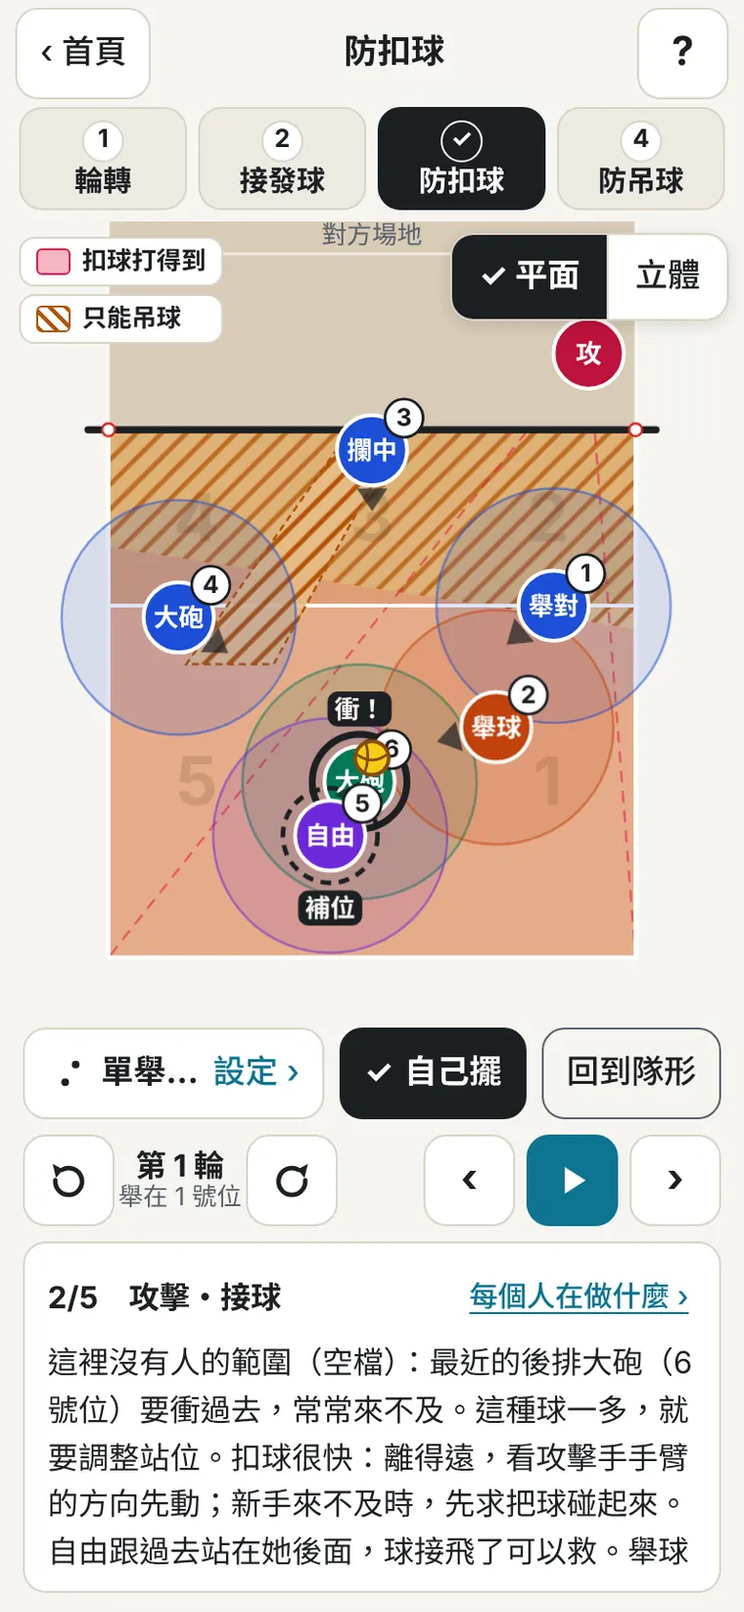
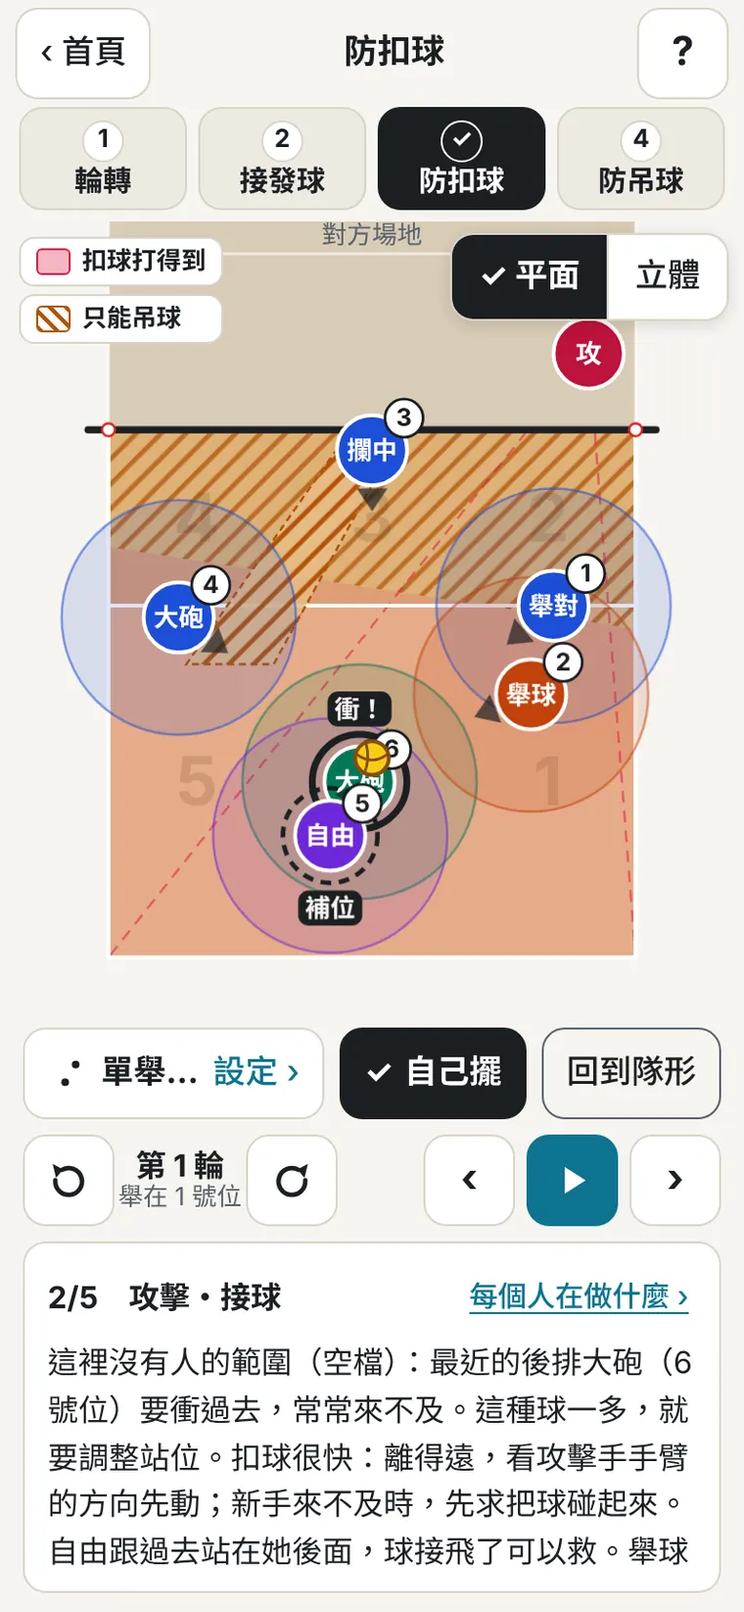
排球站位教室 v2.3.0：球往舉球位置接、舉球員接第一球由輔舉修正、連續播放
- 防起來的球一律接到舉球員跑到的終點（網前、2 號位偏中間）
- 舉球員接第一球：舉對（輔舉）從 1 號位跑上來修正，修正球離網稍微開一點；舉球員讓開
- 預設連續播放：接球、送球時不停下來；設定「播放方式」可改回每一步停下來
- 說明、知識頁、站位圖解跟著更新；說明圖重拍

Claude-Session: https://claude.ai/code/session_01Q8m2fzsawgKx5UKmuuzCmE

Changed region(s): [[0.5145, 0.372, 0.8474, 0.5271], [0.7868, 0.403, 0.8776, 0.496], [0.5447, 0.496, 0.6053, 0.5271]]

diff --git a/js/app.js b/js/app.js
@@ -4,14 +4,18 @@
 (() => {
 'use strict';
 
-const APP_VERSION = '2.2.0';
+const APP_VERSION = '2.3.0';
 const BUILD_DATE = '2026-11-16';
 const VERSION_TEXT = `v${APP_VERSION}（${BUILD_DATE}）`;
 const COPY = '© 2026 Ken Chen';
 const KEY = { settings:'vbdef.settings.v1', custom:'vbdef.custom.v1', hint:'vbdef.hint.drag.v1', hint2:'vbdef.hint.v2', screen:'vbdef.screen' };
 const NS = 'http://www.w3.org/2000/svg';
 const VB = { x:-0.45, y:-3.55, w:9.9, h:13.55 };
-const TARGET = [4.8, 2.6];                       // 防起來要送到的目標區：場中間、離網兩三公尺
+const TARGET = [4.8, 2.6];                       // （舊的目標區，只留給測試對照）
+// 修正球的目標：舉球員接第一球時，送給 1 號位跑上來的舉對（輔舉）；離網稍微開一點，但不能太開，攔中才打得到
+const FIX_T = [6.1, 1.9];
+// 防起來的球一律接到舉球員會跑到的終點（網前、2 號位偏中間）；舉球員自己接第一球時改送修正目標
+function digTarget(d){ return d === 'S' ? FIX_T : rt(); }
 const RT0 = [5.6, 1.15];                         // 接發球的傳球目標：網前 1 公尺多、中間偏右
 function rt(){ return VBRot.teamOK(S.system, S.recv) ? VBRot.TEAM.target : RT0; }   // 隊上的圖：舉球員在 2 號位偏中間舉
 const SERVER_Y = -9.6;                           // 發球員站在對方底線後面
@@ -77,7 +81,7 @@ const darkMQ = (() => { try{ return window.matchMedia('(prefers-color-scheme: da
 
 /* ---------- 狀態 ---------- */
 const DEFAULTS = { system:'51', rot:1, recv:'team', useLib:true, step:'rot', serveX:1.6, view:'2d', cam:'dig',
-  formation:'ours', canOH:true, canMB:true, canR:false, mbLate:false, blockRes:'soft', libero:5, radius:2, speed:'normal', attackType:'spike', mode:'learn', attacker:{ x:8.2, y:-1.3 } };
+  formation:'ours', canOH:true, canMB:true, canR:false, mbLate:false, blockRes:'soft', libero:5, radius:2, speed:'normal', flow:'flow', attackType:'spike', mode:'learn', attacker:{ x:8.2, y:-1.3 } };
 const CAMS = ['dig','stand','S','MB','OH1','OPP','OH2','L'];
 function sanitizeSettings(o){
   const r = {};
@@ -95,6 +99,7 @@ function sanitizeSettings(o){
   if (['normal','slow'].includes(o.speed)) r.speed = o.speed;
   if (['spike','tip'].includes(o.attackType)) r.attackType = o.attackType;
   if (['soft','kill','miss'].includes(o.blockRes)) r.blockRes = o.blockRes;
+  if (['flow','step'].includes(o.flow)) r.flow = o.flow;
   if (['learn','free'].includes(o.mode)) r.mode = o.mode;
   if (o.attacker && isFinite(o.attacker.x) && isFinite(o.attacker.y)) r.attacker = { x:clamp(+o.attacker.x, .3, 8.7), y:clamp(+o.attacker.y, -3.2, -.6) };
   if (['51','62','42'].includes(o.system)) r.system = o.system;
@@ -126,7 +131,7 @@ const S = Object.assign({}, DEFAULTS, sanitizeSettings(store.get(KEY.settings, {
 S.attacker = Object.assign({}, S.attacker);
 let custom = sanitizeCustom(store.get(KEY.custom, null));
 function saveSettings(){
-  store.set(KEY.settings, { sv:4, blockRes:S.blockRes, system:S.system, rot:S.rot, recv:S.recv, useLib:S.useLib, step:S.step, serveX:+S.serveX.toFixed(2), view:S.view, cam:S.cam,
+  store.set(KEY.settings, { sv:4, blockRes:S.blockRes, flow:S.flow, system:S.system, rot:S.rot, recv:S.recv, useLib:S.useLib, step:S.step, serveX:+S.serveX.toFixed(2), view:S.view, cam:S.cam,
     formation:S.formation, canOH:S.canOH, canMB:S.canMB, canR:S.canR, mbLate:S.mbLate, libero:S.libero, radius:S.radius,
     speed:S.speed, attackType:S.attackType, mode:S.mode, attacker:{ x:+S.attacker.x.toFixed(2), y:+S.attacker.y.toFixed(2) } });
 }
@@ -284,7 +289,7 @@ function compute(att){
   let extra = tip ? (perTip ? `吊球靠${roleName(tip, lu)}看到就往前撲（離得遠，這是心後的弱點）。` : `吊球由${roleName(tip, lu)}守。`)
                   : (blockRoles.length ? '短球由退下來的前排守。' : '');
   if (frontCover && S.formation !== 'per' && S.formation !== 'ours') extra += '前排已經有人守吊球，後排三個人都站深。';
-  if (tip === 'S') extra += '舉球員接了吊球，就要喊「修正」換人舉。';
+  if (tip === 'S') extra += '舉球員接了吊球，第二球由舉對（輔舉）舉。';
   const summary = `${sideText}：${blockText}。${extra}`;
   return { pos, base, notes, lu, side, blockers:blockRoles, seg, tip, summary, shadow: shadowPoly(att, seg), free:false };
 }
@@ -394,16 +399,13 @@ function ruleText(dec){
 }
 
 /* ---------- 一球的過程 ---------- */
-function backupSetter(dec, comp, P1){
-  const pool = ['L','OH2','OPP'].filter(r => r !== dec.digger && !comp.lu[r].front);
-  if (!pool.length) return 'L';
-  pool.sort((p, q) => dist(P1[p], TARGET) - dist(P1[q], TARGET));
-  return pool[0];
-}
-function chooseHitter(d, L, comp){
+// 隊上的做法：舉球員接第一球時，由舉對（輔舉）舉第二球
+function backupSetter(dec){ return dec.digger === 'OPP' ? 'L' : 'OPP'; }
+function chooseHitter(d, L, comp, setter){
   const lu = comp.lu;
+  if (setter === 'OH1') return 'MB';
   if (lu.OH1.front && !(d === 'OH1' && L[1] > 4)) return 'OH1';
-  if (lu.OPP.front && d !== 'OPP' && !(S.formation === 'ours' && setterBack())) return 'OPP';
+  if (lu.OPP.front && d !== 'OPP' && setter !== 'OPP' && !(S.formation === 'ours' && setterBack())) return 'OPP';
   return 'MB';
 }
 function coverSpots(H){
@@ -486,10 +488,15 @@ function buildSteps(L, type, comp, dec, att){
   const P1 = clonePos(P0);
   P1[d] = clampCourt([L[0] + away[0]*.45, L[1] + away[1]*.45]);   // 站在球的後面一點，球在身體前面接
   const busy = new Set([d, ...comp.blockers]);
+  const TG = digTarget(d);
   const setterGoes = d !== 'S' && !comp.blockers.includes('S');
   if (setterGoes) busy.add('S');
+  // 舉球員接第一球：舉對（輔舉）要去舉，不去補位
+  const fixGoes = d === 'S';
+  if (fixGoes) busy.add('OPP');
   let backup = dec.backup;
   if (backup === 'S' && setterGoes) backup = null;
+  if (backup === 'OPP' && fixGoes) backup = null;
   // 前排攻擊手要準備攻擊，只有球落在前場（離網 3.5 公尺內）時才幫忙補位
   const canHelp = r => !busy.has(r) && (!lu[r].front || L[1] < 3.5);
   if (!backup){
@@ -511,14 +518,16 @@ function buildSteps(L, type, comp, dec, att){
     const stp = Math.min(.6, dd * .25);
     P1[r] = [P0[r][0] + (L[0] - P0[r][0]) / dd * stp, P0[r][1] + (L[1] - P0[r][1]) / dd * stp]; leaners.push(r);
   }
-  const setterRole = d === 'S' ? backupSetter(dec, comp, P1) : 'S';
-  if (setterGoes) P1.S = lerp(P0.S, TARGET, .35);
+  const setterRole = d === 'S' ? backupSetter(dec) : 'S';
+  if (setterGoes) P1.S = lerp(P0.S, TG, .35);
+  if (fixGoes && !comp.blockers.includes('OPP')) P1.OPP = lerp(P0.OPP, TG, .3);
   const tech = digTech(soft ? 'soft' : type, P0[d], L);
   let cap1 = (soft ? '這球打到攔網的手，速度變慢，掉在攔網後面變成小球。' : '') + reasonText(dec, lu) + tech;
   if (backup && backup !== dec.backup) cap1 += `${short(backup)}跟過去站在她後面，球接飛了可以救。`;
   if (fillers.length) cap1 += `${fillers.map(short).join('、')}往她空出來的地方移一點。`;
   if (leaners.length) cap1 += '其他人往球的方向靠一步，眼睛跟著球。';
-  if (setterGoes) cap1 += '舉球員看到別人接，就往目標區跑。';
+  if (setterGoes) cap1 += '舉球員看到別人接，就往網前的舉球位置跑。';
+  if (fixGoes) cap1 += '舉對（輔舉）看到舉球員去接，就往前跑，準備舉第二球。';
   const rules1 = [ruleText(dec)];
   if (backup || fillers.length) rules1.push('補位：最近的隊友跟到接球的人後面保護，旁邊的人往空出來的地方移（教練慣例）。');
   const faceMap = {}; for (const r of ROLES) faceMap[r] = L; faceMap[d] = A;
@@ -530,27 +539,33 @@ function buildSteps(L, type, comp, dec, att){
     notes:allNotes(r => r === d ? `接球：${tech}` : r === backup ? '補位：跟到接球的人後面，球接飛了可以救'
       : fillers.includes(r) ? '補空位：往接球的人空出來的地方移一點'
       : leaners.includes(r) ? '往球的方向靠一步，準備救接飛的球'
-      : (r === 'S' && setterGoes) ? '往目標區跑，準備舉球' : comp.blockers.includes(r) ? '攔網落地，轉身看球' : '原地準備，眼睛跟著球') });
-  // 2. 送到目標區
+      : (r === 'S' && setterGoes) ? '往網前的舉球位置跑，準備舉球' : (r === 'OPP' && fixGoes) ? '看到舉球員去接，往前跑準備舉第二球' : comp.blockers.includes(r) ? '攔網落地，轉身看球' : '原地準備，眼睛跟著球') });
+  // 2. 送到舉球位置（舉球員接第一球時送修正球）
   const P2 = clonePos(P1);
   const moved = new Set([setterRole]);
-  P2[setterRole] = [TARGET[0] + .15, TARGET[1] + .3];
+  P2[setterRole] = [TG[0] + .15, TG[1] + .3];
   const attackers = ['OH1','MB','OPP'].filter(r => lu[r].front && r !== setterRole && !(r === d && L[1] > 5));
   for (const r of attackers){ P2[r] = APPROACH[r].slice(); moved.add(r); }
-  if (!moved.has(d)){ P2[d] = lerp(P1[d], TARGET, .2); moved.add(d); }
+  if (!moved.has(d)){
+    // 接完球往舉球的人靠過去準備保護；舉球員自己接的，讓開位置給輔舉
+    if (d === 'S'){ const v = unit([P1.S[0] - TG[0], P1.S[1] - TG[1]]); P2.S = clampCourt([P1.S[0] + v[0] * .6, P1.S[1] + v[1] * .6]); }
+    else P2[d] = lerp(P1[d], TG, .2);
+    moved.add(d);
+  }
   for (const r of ROLES) if (!moved.has(r) && !lu[r].front) P2[r] = (READY[lu[r].zone] || P2[r]).slice();
-  let cap2 = `${short(d)}把球高高接到場中間、離網兩三公尺的目標區。`;
+  let cap2;
   if (d === 'S'){
-    cap2 += `舉球員接了第一球，喊「修正」，由最近的${short(setterRole)}來舉，高高送到 4 號位。`;
+    cap2 = `舉球員接了第一球：把球接高、離網稍微開一點（不能太開，攔中才打得到），${short(setterRole)}（輔舉）從後面跑上來修正，高高送到 4 號位。`;
     if (setterRole === 'L') cap2 += '自由在三米線前用手舉的話，攻擊手不能在網子上方打，所以要用下手舉，或退到三米線後面舉。';
-  } else cap2 += '舉球員跑到球下面準備舉。';
+  } else cap2 = `${short(d)}把球接高，往舉球員會跑到的地方送（網前、2 號位偏中間）。不管在哪個位置接，都往這裡接。舉球員跑到球下面準備舉。`;
   cap2 += '前排攻擊手退到起跑點' + (comp.blockers.length ? '，攔網的人落地轉身退開' : '') + '。';
-  steps.push({ key:'pass', title:'送到目標區', pos:P2, ball:{ from:L, to:TARGET, dur:900, arc:1.1, z:[.65, 2.4, 4.6] }, cap:cap2, face:TARGET,
-    rule: d === 'S' ? '依據：舉球員接第一球時，由自由或舉對舉第二球；自由在前區用手舉有限制（規則）。' : '依據：防起來的球要高、離網、往場中間。',
-    marks:{ set:setterRole, target:'dig' },
-    notes:allNotes(r => r === setterRole ? '跑到目標區，準備舉球' : attackers.includes(r) ? '退到起跑點，準備助跑' : r === d ? '接完球往中間靠，準備保護' : '回到後排，準備保護') });
+  const passDur = clamp(900 + Math.max(0, dist(P1[setterRole], TG) - 3) * 140, 900, 1400);
+  steps.push({ key:'pass', title: d === 'S' ? '修正：送給輔舉' : '送到舉球位置', pos:P2, moveDur:passDur - 100, ball:{ from:L, to:TG, dur:passDur, arc:1.1, z:[.65, 2.4, 4.6] }, cap:cap2, face:TG,
+    rule: d === 'S' ? '依據：隊上的做法，舉球員接第一球時由舉對（輔舉）舉第二球；修正球離網稍微開一點（教練）。' : '依據：隊上的做法，防起來的球一律往舉球員跑到的終點接（教練）。',
+    marks:{ set:setterRole, target: d === 'S' ? 'fix' : 'rt' },
+    notes:allNotes(r => r === setterRole ? (d === 'S' ? '跑上來修正，準備舉第二球' : '跑到網前的舉球位置，準備舉球') : attackers.includes(r) ? '退到起跑點，準備助跑' : r === d ? '接完球往中間靠，準備保護' : '回到後排，準備保護') });
   // 3. 舉球・保護
-  const hitter = chooseHitter(d, L, comp);
+  const hitter = chooseHitter(d, L, comp, setterRole);
   const H = HIT[hitter];
   const P3 = clonePos(P2);
   P3[hitter] = [H[0], H[1] + .2];
@@ -560,10 +575,10 @@ function buildSteps(L, type, comp, dec, att){
   assignSpots(close, sp.close, P2, P3); assignSpots(deep, sp.deep, P2, P3);
   const over = [H[0] < 4.5 ? H[0] + 2.6 : H[0] - 2.6, -2.8];
   const toSide = hitter === 'OH1' ? '4 號位' : (hitter === 'OPP' ? '2 號位' : '中間');
-  steps.push({ key:'set', title:'舉球・保護', pos:P3, face:H, ball:{ from:TARGET, to:H, dur:900, arc:1.0, z:[2.4, 2.95, 4.8], then:{ to:over, dur:300, arc:.1, z:[2.95, .05, 0] } },
+  steps.push({ key:'set', title:'舉球・保護', pos:P3, face:H, ball:{ from:TG, to:H, dur:900, arc:1.0, z:[2.4, 2.95, 4.8], then:{ to:over, dur:300, arc:.1, z:[2.95, .05, 0] } },
     cap:`${short(setterRole)}舉高球到${toSide}給${short(hitter)}攻擊。離攻擊手最近的三個人（${close.map(short).join('、')}）蹲低靠近保護，另外兩個人站後面一點：球被攔回來才接得到。`,
     rule:'依據：離攻擊手最近的三個人近距離保護，最遠的兩個人守後面（教練慣例）。',
-    marks:{ hit:hitter, target:'dig' }, hitter,
+    marks:{ hit:hitter, target: d === 'S' ? 'fix' : 'rt' }, hitter,
     notes:allNotes(r => r === hitter ? '助跑攻擊' : close.includes(r) ? '靠近攻擊手、蹲低保護' : '站後面一點，保護比較遠的球') });
   // 4. 回防
   steps.push({ key:'reset', title:'回防', pos:clonePos(comp.base), ball:null, face:A,
@@ -1223,7 +1238,7 @@ function applyStep(i, animate){
   updateLegend(blockShown);
   clearPaths();
   if (st.marks && st.marks.pairs) drawPairs(st.pos, comp.R.roleZone);
-  if (st.marks && st.marks.target) drawTarget(st.marks.target === 'rt' ? rt() : TARGET, st.marks.target === 'rt' ? '傳球目標' : '目標區');
+  if (st.marks && st.marks.target) drawTarget(st.marks.target === 'fix' ? FIX_T : rt(), st.marks.target === 'fix' ? '修正' : (st.key === 'pass' && S.step !== 'recv' ? '舉球位置' : '傳球目標'));
   if (st.marks && st.marks.routes) drawMoveArrows(st.marks.routes, true);
   if (st.marks && st.marks.arrows) drawMoveArrows(st.marks.arrows, false);
   if (st.marks && st.marks.swap) drawSwap(st.marks.swap);
@@ -1247,13 +1262,18 @@ function applyStep(i, animate){
   updateButtons();
   updateNextLesson();
 }
+// 球還在空中的步驟（接球、送到舉球位置、接發球）播完馬上接下一步，像真的比賽一樣不停下來
+const LIVE_KEYS = ['dig','pass','serve'];
+function ballTotal(b){ if (!b || !b.from) return 0; return (b.dur || 500) * slowK(b) + (b.then ? (b.then.dur || 500) : 0); }
 function scheduleNext(){
   stopTimer();
   if (!play.auto) return;
   if (play.i >= play.steps.length - 1){ play.auto = false; updateButtons(); return; }
   const st = play.steps[play.i];
-  const read = clamp(900 + st.cap.length * 45, 1600, 5600);
-  play.timer = setTimeout(() => { applyStep(play.i + 1, true); scheduleNext(); }, stepDur(st) * speedK() + read * (S.speed === 'slow' ? 1.4 : 1));
+  const read = clamp(900 + st.cap.length * 45, 1600, 5600) * (S.speed === 'slow' ? 1.4 : 1);
+  const live = S.flow !== 'step' && LIVE_KEYS.includes(st.key) && st.ball;
+  const wait = live ? Math.max(stepDur(st), ballTotal(st.ball)) * speedK() + 40 : stepDur(st) * speedK() + read;
+  play.timer = setTimeout(() => { applyStep(play.i + 1, true); scheduleNext(); }, wait);
 }
 function startSim(L){
   if (S.step === 'rot') return;
@@ -1585,7 +1605,7 @@ function frame3(now){
   const ball = ball3.show ? { x:ball3.x, y:ball3.y, z:ball3.z, spin:now / 150 } : null;
   const near = role && ball && Math.hypot(ball.x - (posNow(role, now) || comp.pos[role])[0], ball.y - (posNow(role, now) || comp.pos[role])[1]) < 1.6 && ball.z < 2;
   const scene = { camera:camera3(now, role, dt, st), people: v3.gl ? people : people.filter(p => !p.hidden), ball,
-    dark:darkMQ.matches, zones:zones3(), target: mk ? (mk === 'rt' ? rt() : TARGET) : null,
+    dark:darkMQ.matches, zones:zones3(), target: mk ? (mk === 'fix' ? FIX_T : rt()) : null,
     hud:(role ? `第一人稱：${ROLE_INFO[role].name}的眼睛` : '看台視角') + '・慢動作',
     arms: role ? { on:true, pose: near ? 'platform' : 'ready', at: near ? [ball.x, ball.y, ball.z] : null, color:v3.colors[groupOf(role, lu)] } : null };
   v3.r.render(scene);
@@ -1728,6 +1748,7 @@ function refreshSitUI(){
   $('chipR').textContent = rName();
   $('blockDesc').textContent = blockDesc();
   $('blockResDesc').textContent = BLOCKRES_DESC[S.blockRes];
+  $('flowDesc').textContent = S.flow === 'step' ? '每一步停下來讓你看說明，再自動播下一步。' : '球在空中不停下來，像真的比賽；想看每一步的說明，按暫停或用 ‹ › 前後看。';
   document.querySelectorAll('.chips[data-key="mbLate"] button').forEach(b => { b.setAttribute('aria-pressed', String((S.mbLate ? '1' : '0') === b.dataset.v)); b.setAttribute('aria-disabled', String(!S.canMB)); });
 }
 function onChip(key, v){
@@ -1867,7 +1888,7 @@ const HELP = [
     { img:'help/learn-1.webp', h:'紅色和橘色斜線', p:'紅色是扣球打得到的地方，橘色斜線是只能吊球的地方：攔網擋住的陰影，和網子前面扣球打不到的地方。攔網的人越多，紅色越少。' },
     { img:'help/learn-2.webp', h:'拖紅色的「攻」', p:'紅色的「攻」是對方的攻擊手。拖到左邊、中間、右邊，我們的人會跟著換到防守位置，攔網也會跟過去。' },
     { img:'help/learn-3.webp', h:'拖球看誰接、為什麼', p:'把黃球拖到我們場上放開（也可以直接點）。接球的人標「接」，跟到她後面的人標「補位」。說明會寫出為什麼是她、怎麼接，還有依據。' },
-    { img:'help/learn-4.webp', h:'一步一步看接起來之後', p:'自動播放：接球 → 送到目標區 → 舉球・保護 → 回防。用 ‹ › 可以前後看，「每個人在做什麼」列出這一步每個人的工作。' },
+    { img:'help/learn-4.webp', h:'一步一步看接起來之後', p:'自動播放：接球 → 送到舉球位置 → 舉球・保護 → 回防。球在空中時不會停下來；想看每一步的說明，按暫停或用 ‹ › 前後看（設定也可以改成每一步停下來）。「每個人在做什麼」列出這一步每個人的工作。' },
   ]},
   { id:'view3d', title:'立體畫面', cards:[
     { img:'help/3d-1.webp', h:'切到「立體」', p:'球場右上角切到「立體」，可以看到攔網跳起來、球怎麼飛、大家往哪裡跑。點地板，球就會打到那裡。' },

diff --git a/index.html b/index.html
@@ -255,8 +255,8 @@
       <ul>
         <li><b>最近的人上前接，另一個人跟到她後面保護。</b>球接飛了、從她手臂彈出去，後面的人可以救。</li>
         <li><b>旁邊的人往她空出來的地方移一點。</b>例如邊跟進時 1 號位往前守吊球，6 號位就往直線那邊移過去補。</li>
-        <li><b>舉球員</b>看到別人接，就往目標區跑；<b>攔網的人</b>落地轉身看球；<b>其他人</b>眼睛跟著球、身體轉向球。</li>
-        <li><b>球接起來以後</b>大家往前移動（往目標區、往攻擊手），不要往後退。</li>
+        <li><b>舉球員</b>看到別人接，就往網前的舉球位置跑；<b>攔網的人</b>落地轉身看球；<b>其他人</b>眼睛跟著球、身體轉向球。</li>
+        <li><b>球接起來以後</b>大家往前移動（往舉球員、往攻擊手），不要往後退。</li>
       </ul>
     </details>
 
@@ -296,7 +296,7 @@
     <details>
       <summary>球接起來之後</summary>
       <ol>
-        <li><b>往哪接</b>：防起來的球要高、往場中間、離網兩三公尺；接發球則傳到網前中間偏右、離網 1 公尺多。太靠網容易直接過網給對方。</li>
+        <li><b>往哪接</b>（隊上的做法）：不管在哪個位置接，都把球接高、往舉球員會跑到的終點送（網前、2 號位偏中間，離網 1 公尺左右），接發球也一樣。舉球員自己接第一球時，改送給從 1 號位跑上來的舉對（輔舉）修正：離網稍微開一點，但不能太開，攔中才打得到。</li>
         <li><b>舉球員</b>：看到別人接，就跑去球下面舉。</li>
         <li><b>舉球員接了第一球</b>：她喊「修正」，由自由或舉對來舉，高高送到 4 號位。自由在三米線前面用手舉的話，攻擊手不能在網子上方打，所以自由用下手舉，或在三米線後面舉。<span class="tag">規則</span></li>
         <li><b>攻擊手</b>：接完球或攔完網，馬上退到起跑點準備助跑。</li>
@@ -409,6 +409,13 @@
         <div class="chips" data-key="speed">
           <button data-v="normal">正常</button><button data-v="slow">慢</button>
         </div>
+      </fieldset>
+      <fieldset>
+        <legend>播放方式</legend>
+        <div class="chips" data-key="flow">
+          <button data-v="flow">連續（像比賽）</button><button data-v="step">每一步停下來</button>
+        </div>
+        <p class="hint-line" id="flowDesc"></p>
       </fieldset>
     </div>
   </div>

diff --git a/js/diagrams.js b/js/diagrams.js
@@ -158,9 +158,9 @@ function topics(api){
   T.push({ id:'cover', title:'保護和補位', cards:[
     { h:'保護攻擊手：3 近 2 遠', p:'舉球出去後，離攻擊手最近的三個人蹲低靠近（像一個半圓），另外兩個人站後面一點。球被攔回來時，才接得到。', src:'根據：Coaching Volleyball（Hitter coverage）',
       svg:() => court({ label:'保護攻擊手', players:[{ x:H[0], y:H[1] + .2, t:'攻', g:'front', tag:'攻擊' }].concat(cs.close.map(p => ({ x:p[0], y:p[1], t:'近', g:'back' })), cs.deep.map(p => ({ x:p[0], y:p[1], t:'遠', g:'lib' }))), block:[.4, 1.6] }) },
-    { h:'有人接球時，其他人做什麼', p:'最近的人上前接（標「接」），另一個人跟到她後面保護（補位），旁邊的人往她空出來的地方移一點；舉球員往目標區跑。球接起來後，大家往前移動，不要往後退。',
-      svg:() => court({ label:'補位', players:[{ x:1.6, y:6.2, t:'接', g:'lib', ring:true }, { x:2.6, y:7.6, t:'補', g:'back', ring:'dash', tag:'補位', tagBelow:true }, { x:4.0, y:6.6, t:'移', g:'back' }, { x:6.6, y:4.2, t:'舉', g:'set' }],
-        arrows:[{ from:[2.4, 4.4], to:[1.75, 5.7], c:'var(--opp)', w:.07 }, { from:[7.6, 6.2], to:[6.8, 4.6], c:'var(--setter)', dash:'.16 .1' }], target:api.TARGET }) },
+    { h:'有人接球時，其他人做什麼', p:'最近的人上前接（標「接」），另一個人跟到她後面保護（補位），旁邊的人往她空出來的地方移一點；舉球員往網前的舉球位置跑，大家都把球往那裡接。球接起來後，大家往前移動，不要往後退。',
+      svg:() => court({ label:'補位', players:[{ x:1.6, y:6.2, t:'接', g:'lib', ring:true }, { x:2.6, y:7.6, t:'補', g:'back', ring:'dash', tag:'補位', tagBelow:true }, { x:4.0, y:6.6, t:'移', g:'back' }, { x:6.7, y:2.6, t:'舉', g:'set' }],
+        arrows:[{ from:[2.4, 4.4], to:[1.75, 5.7], c:'var(--opp)', w:.07 }, { from:[7.6, 4.4], to:[6.8, 3.0], c:'var(--setter)', dash:'.16 .1' }], target:api.rt() }) },
   ]});
   T.push({ id:'stance', title:'準備姿勢和步法', cards:STANCE });
   return T;

diff --git a/sw.js b/sw.js
@@ -1,6 +1,6 @@
 /* 排球站位教室：離線快取。先問網站有沒有新版（最多等 3 秒），連不上或回錯誤就用存好的版本。 */
 const PREFIX = 'vbdef-';
-const VERSION = '2.2.0';
+const VERSION = '2.3.0';
 const CACHE = PREFIX + VERSION;
 const ASSETS = [
   './', 'index.html', 'css/app.css', 'js/rotation.js', 'js/render3d.js', 'js/gl3d.js', 'js/diagrams.js', 'js/app.js', 'manifest.webmanifest',

diff --git a/README.md b/README.md
@@ -8,6 +8,8 @@
 - **隊上的站法**：教練畫的單舉六輪（接發球大多四個人接、我們發球怎麼換位、舉球員一律守 2 號位），是單舉的預設；也可以換成五人 W、四人、三人。
 - **2 接發球**：五人 W、四人、三人接；發球那一刻的站位規則（虛線連起來的兩個人不能前後或左右交換）自動檢查，拖球看誰接發球、哪隻腳在前、怎麼接，接著傳到舉球員、舉球・保護、換到防守位置。
 - **3 防扣球、4 防吊球**：紅色是扣球打得到的地方，橘色斜線是只能吊球的地方（攔網陰影和網前），拖對方攻擊手、拖球看誰接、誰補位。可以切到「自己擺」拖 6 個人。
+- **往哪接**（隊上的做法）：防起來的球一律往舉球員跑到的終點接（網前、2 號位偏中間）；舉球員接第一球時，送給 1 號位跑上來的舉對（輔舉）修正，離網稍微開一點。
+- **播放方式**：預設連續播放，球在空中不停下來；設定可以改成每一步停下來看說明。
 - **隊上的防守**（預設）：舉球員和舉對都不攔網，舉球員守 2 號位的短球，長一點的給 1 號位的舉對。球打進攔網範圍時，可以選「碰手變小球」（預設，看攔網後面誰去接）、「攔死」或「沒攔到」。
 - **立體畫面**：用 WebGL 畫的人形球員（會蹲低準備、跑、攔網跳起來、雙手接球），預設慢動作；可以用接球的人的眼睛（第一人稱）看扣球慢慢飛過來、接進自己的雙手。不需要網路或外部套件；手機不支援 WebGL 時改用簡單的畫法。
 - **站位圖解**：號位和站位規則、接發球隊形、單舉六輪、雙輔舉、雙舉、防守隊形、保護和補位、準備姿勢和步法。
@@ -33,7 +35,7 @@
 
 ## 退回舊版
 
-每次改版前都會先把目前的 `main` 另存成備份分支（例如 `backup-v1.1.0`、`backup-v2.0.0`、`backup-v2.1.0`）。新版有問題時：
+每次改版前都會先把目前的 `main` 另存成備份分支（例如 `backup-v1.1.0`、`backup-v2.0.0`、`backup-v2.1.0`、`backup-v2.2.0`）。新版有問題時：
 
 1. 在 GitHub 打開備份分支，把檔案放回 `main`（或在電腦上 `git checkout backup-v1.1.0 -- .` 再推上去）。
 2. 把 `sw.js` 的 `VERSION` 改成一個新的號碼（例如 `1.1.1`），手機才會丟掉有問題的快取。
